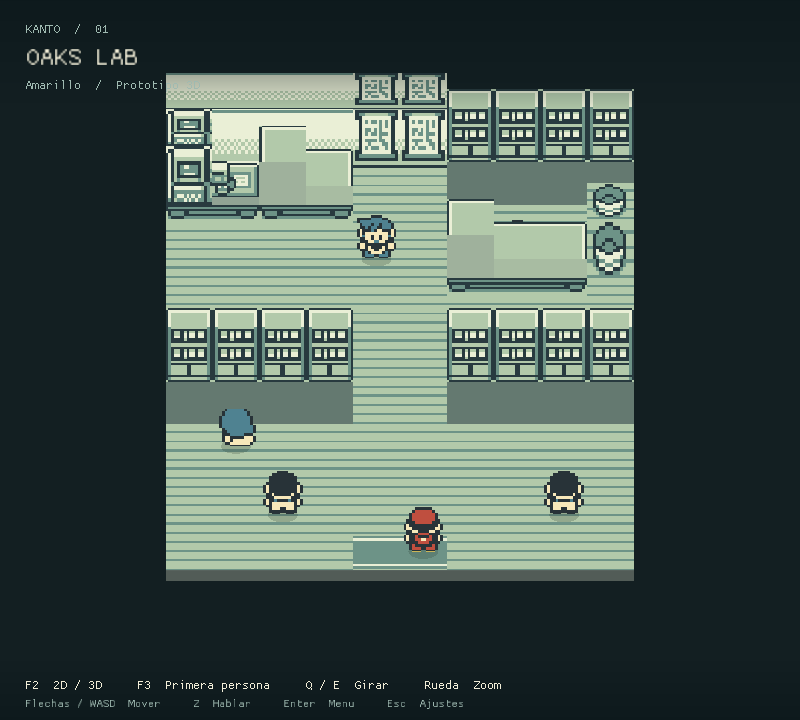
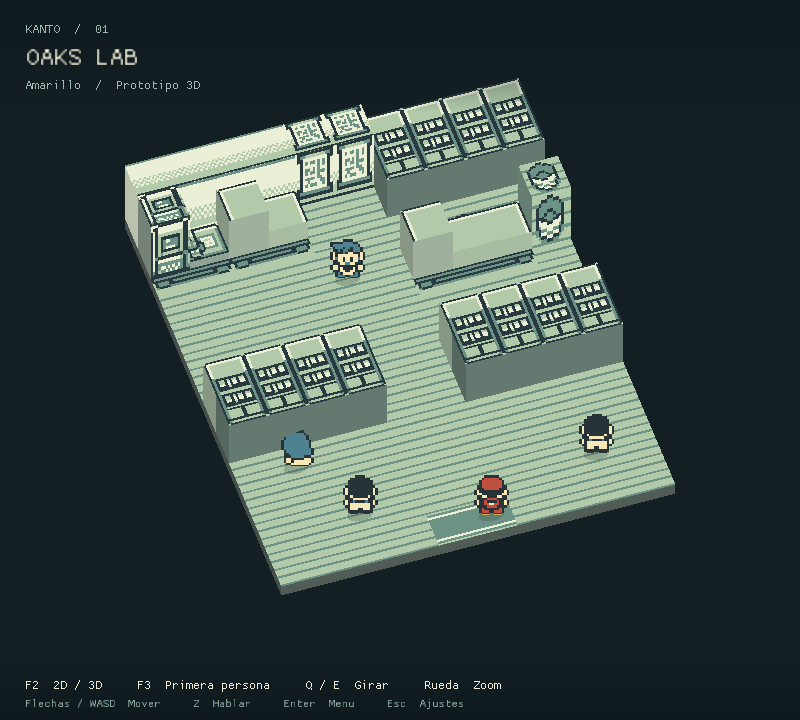
fix: turn the interior camera so small rooms read as 3D

diff --git a/src/pallet3d.cpp b/src/pallet3d.cpp
@@ -33,7 +33,10 @@ uint8_t input_mask=0xff;
 bool dialogue_overlay=false;int last_overworld_map=-1,actors_drawn=0;bool hero_drawn=false;
 bool enabled = true, active = false, failed = false, captured = false;
 float yaw = -.32f, zoom = 1.f;
-float room_yaw=0,room_zoom=1;
+// Rooms share the outdoor default turn: an axis-aligned orthographic view hides every
+// side face and reads as the flat original tilemap (see DIAGNOSTICO_LAB_OAK.md).
+constexpr float RoomYaw=-.32f;
+float room_yaw=RoomYaw,room_zoom=1;
 int atlas_tileset=-2;
 float focus_x=10,focus_z=9;
 bool camera_ready=false;
@@ -274,7 +277,7 @@ void create_map(const GBContext* ctx,const pallet::Scene& scene,const std::vecto
 void update_meshes(const GBContext* ctx) {
     const auto& current=*presented_scene(ctx);
     visible_maps=preview_map>=0?std::vector<int>{current.id}:pallet::resident_maps(current);
-    if(last_component!=current.component) {camera_ready=false;eye.reset();room_yaw=0;room_zoom=1;}
+    if(last_component!=current.component) {camera_ready=false;eye.reset();room_yaw=RoomYaw;room_zoom=1;}
     last_component=current.component;
     for(auto it=meshes.begin();it!=meshes.end();) {
         if(std::find(visible_maps.begin(),visible_maps.end(),it->first)==visible_maps.end()) {
@@ -617,12 +620,12 @@ bool pallet3d_event(const SDL_Event* event,bool menu_open) {
     if(first_person)return false;
     const auto* room=input_context?presented_scene(input_context):nullptr;
     if(room&&room->interior) {
-        bool large=room->width>14||room->height>14;
-        if(event->type==SDL_MOUSEWHEEL) {if(large)room_zoom=std::clamp(room_zoom+event->wheel.y*.12f,.75f,1.8f);return true;}
+        // Every room may turn and zoom; small rooms are exactly the ones that need it.
+        if(event->type==SDL_MOUSEWHEEL) {room_zoom=std::clamp(room_zoom+event->wheel.y*.12f,.75f,1.8f);return true;}
         if(event->type==SDL_KEYDOWN) {
             auto key=event->key.keysym.scancode;
-            if(key==SDL_SCANCODE_Q||key==SDL_SCANCODE_E) {if(large)room_yaw=std::clamp(room_yaw+(key==SDL_SCANCODE_Q?-.08f:.08f),-.4f,.4f);return true;}
-            if(key==SDL_SCANCODE_R) {room_yaw=0;room_zoom=1;return true;}
+            if(key==SDL_SCANCODE_Q||key==SDL_SCANCODE_E) {room_yaw=std::clamp(room_yaw+(key==SDL_SCANCODE_Q?-.08f:.08f),-.4f,.4f);return true;}
+            if(key==SDL_SCANCODE_R) {room_yaw=RoomYaw;room_zoom=1;return true;}
         }
     }
     if(event->type==SDL_MOUSEWHEEL) {
